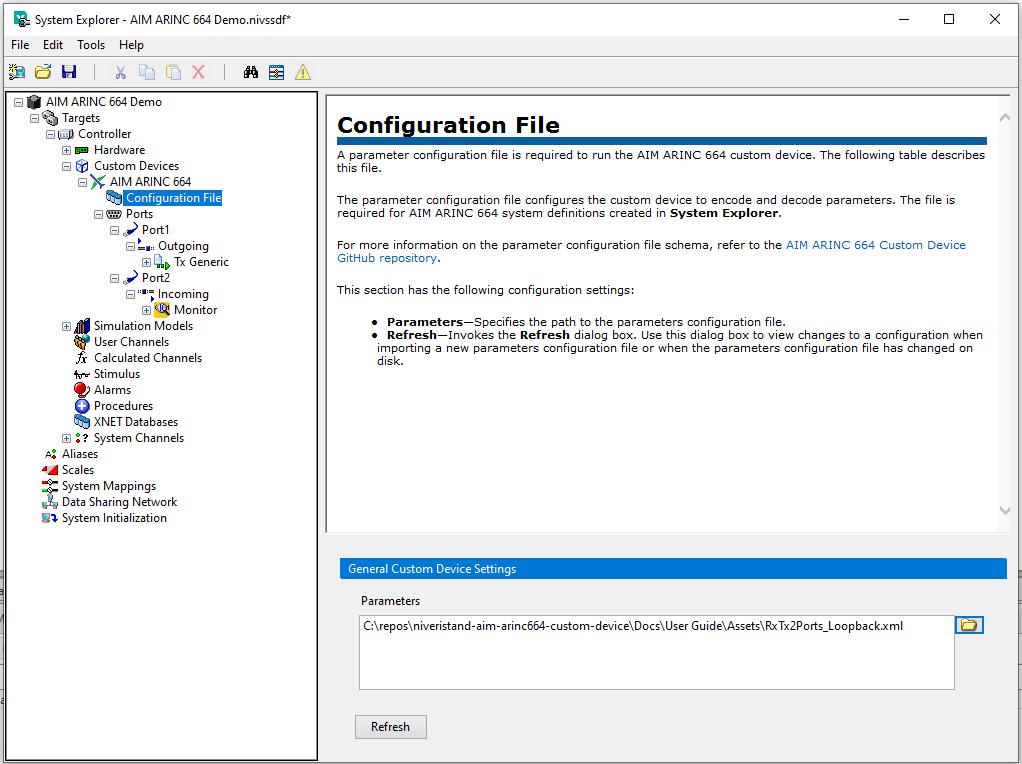
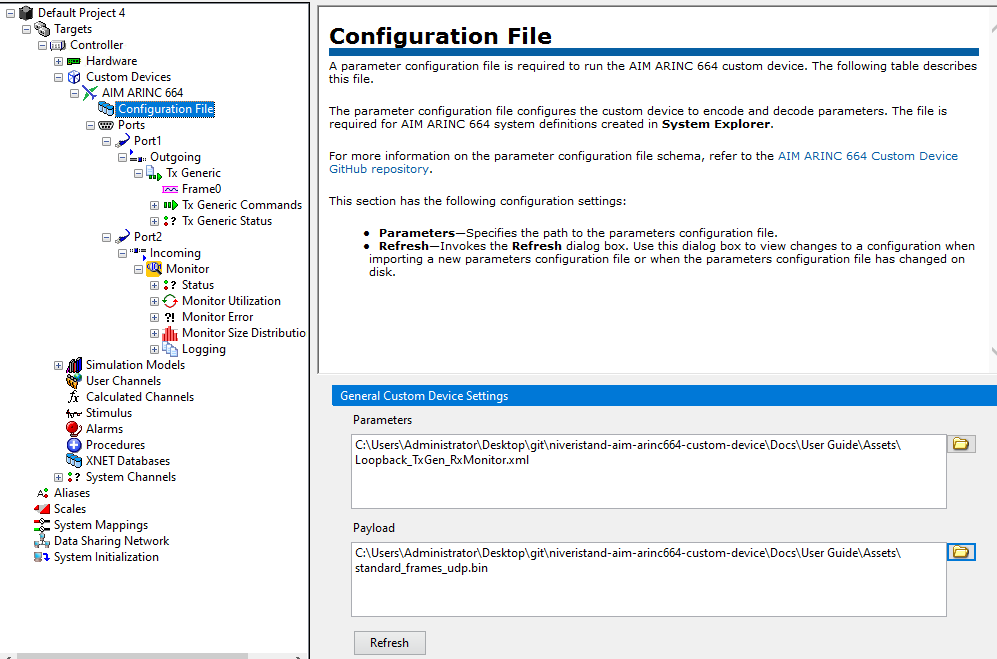
updated paths and added pictures

Changed region(s): [[0.0, 0.0, 1.0, 1.0]]

diff --git a/Docs/User Guide/User Guide.md b/Docs/User Guide/User Guide.md
@@ -15,14 +15,18 @@ This guide shows two options for configuring the custom device:
 ### Importing a Parameters file in System Explorer
 The Parameters file is generated from an XML schema for configuring the custom device. More information about the Parameters file XML schema can be found in `Docs/Parameters XML File/Parameters XML File.md`.
 
-This example uses a simple example Parameters file found at `Assets/RxTx2Ports_Loopback.xml` and a simple Raw Frame Array file found at `Source\Custom Device Support\Frame Configuration\samples\1Frame_10mS.bin`.
+This example uses a simple example Parameters file found at `Assets/Loopback_TxGen_RxMonitor.xml` and a simple Raw Frame Array file found at `Assets/standard_frames_udp.bin`.
 
 The file configures two Ports:
 - Port1 as Tx Generic
     - The Raw Frame Array file configures the frames to be sent by Port1
 - Port2 as Monitor
 
-Port1 sends frames to Port2. Port2 records the frames into a pcap file that a packet analyzer software (such as WireShark) can read.
+![Expanded System Definition tree](Screenshots/System_Explorer_tree_expanded.png)
+
+Port1 sends frames to Port2. Port2 records the frames into a pcap file that a packet analyzer software (such as WireShark) can read. To record frames into a .pcap file, Logging must be enabled (see *Logging* page configuration):
+
+![Logging section](Screenshots/System_Explorer_logging_configured.png)
 
 Below is the Parameters file. Some Session parameters have been left out for the sake of simplicity. Please read the Theory of Operations found at `Docs/Theory of Operations/Theory of Operations.md` to understand the full list of parameters and features you have access to when creating a Parameters xml file.
 
@@ -48,10 +52,8 @@ For each session in the Parameters configuration file, the Custom Device creates
 4. Use the Main Page to set the **Initialization Method**, **Board ID**, **Ports Speed**, **Decimation**, and **Async Rx Execution** accordingly.
 ![System Explorer Main Page](Screenshots/System_Explorer_main_configured.png)
 5. Navigate to the **Configuration File** page.
-6. Use the browse button to select the example parameters file at `Assets/RxTx2Ports_Loopback.xml`
+6. Use the browse buttons to select the example parameters file at `Assets/Loopback_TxGen_RxMonitor.xml` and Raw Frame Array file at `Assets/standard_frames_udp.bin` respectively.
 ![System Explorer Configuration Files](Screenshots/System_Explorer_configuration_file_configured.png)
-7. Navigate to the **Tx Generic** section under Port1.
-8. Use the browse button to select the example Raw Frame Array file at `Source\Custom Device Support\Frame Configuration\samples\1Frame_10mS.bin`.![System Explorer Raw Frame Array File](Screenshots/System_Explorer_frame_configured.png)
 
 ### Scripting the Custom Device Configuration
 

diff --git a/README.md b/README.md
@@ -12,8 +12,8 @@ The custom device supports the following functionality:
 ## Using the Custom Device
 
 - Download the latest release package from the [Releases page]().
-- See the [User Guide]() for a walkthrough of using the Custom Device.
-- See the [Parameters XML File Schema documentation]() for configuring the custom device.
+- See the [User Guide](Docs/User%20Guide/User%20Guide.md) for a walkthrough of using the Custom Device.
+- See the [Parameters XML File Schema documentation](Docs/Parameters%20XML%20File/Parameters%20XML%20File.md) for configuring the custom device.
 
 ## Requirements
 
@@ -46,6 +46,7 @@ LabVIEW 2020 SP1
   - Install the latest package from the [release page](https://github.com/ni/niveristand-custom-device-message-library/releases)
 - [VeriStand Custom Device Testing Tools](https://github.com/ni/niveristand-custom-device-testing-tools)
   - Install the latest package from the [release page](https://github.com/ni/niveristand-custom-device-testing-tools/releases)
+- [Microsoft HTML Workshop](https://learn.microsoft.com/en-us/previous-versions/windows/desktop/htmlhelp/microsoft-html-help-downloads )
 
 ## Git History & Rebasing Policy
 
